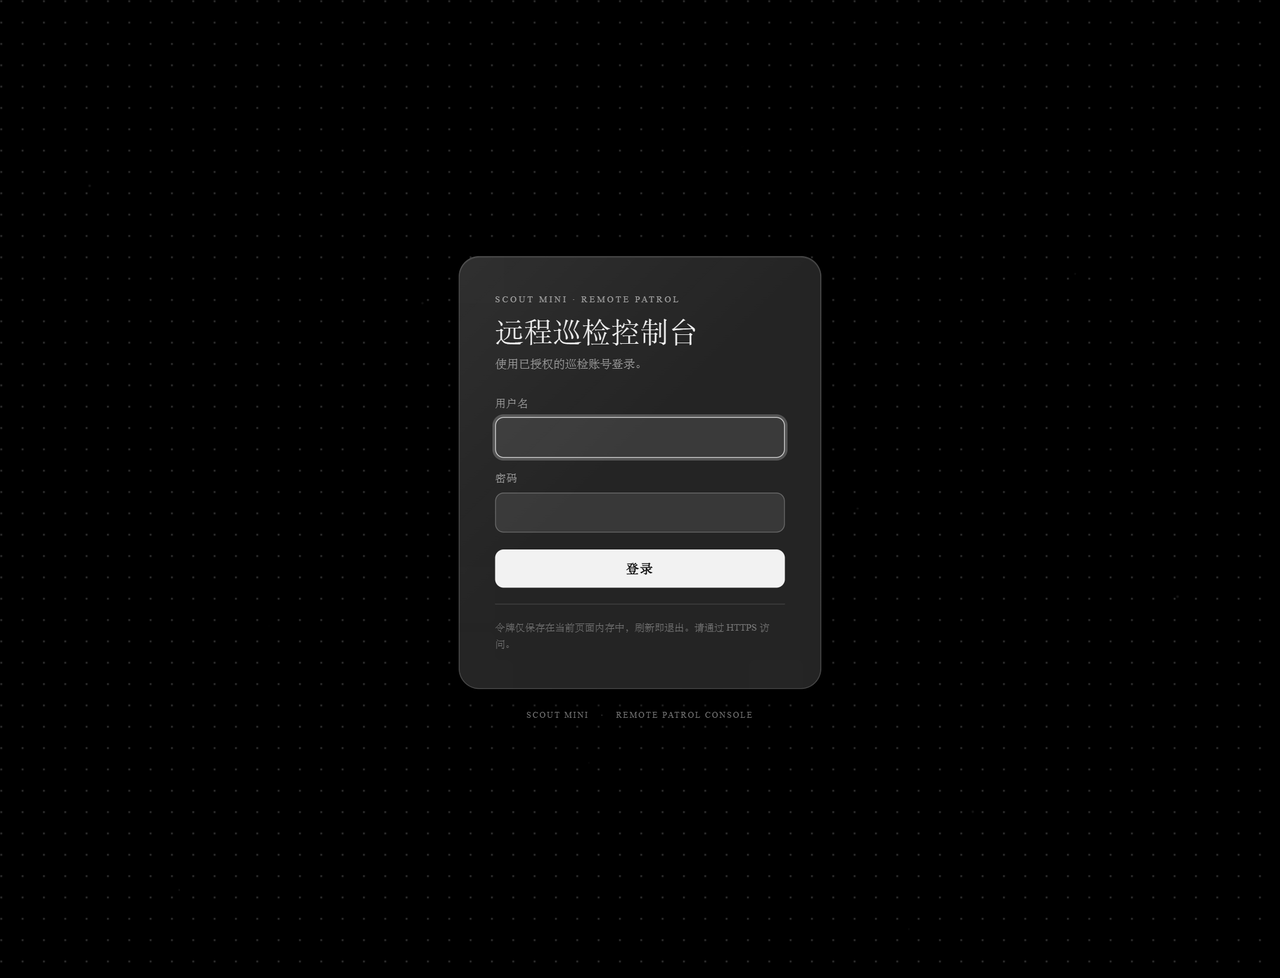
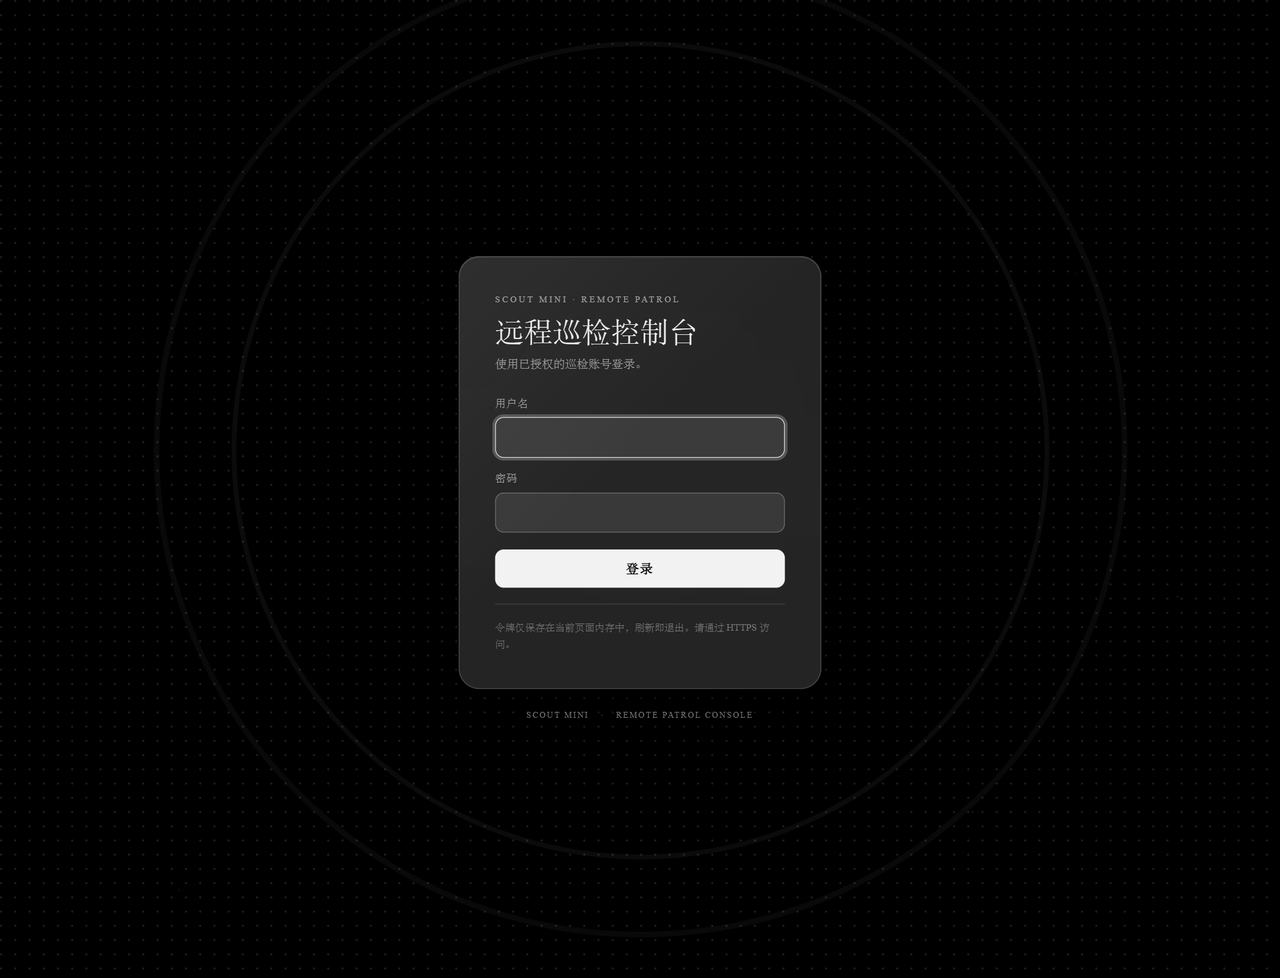
feat(frontend): limit dot field to login and add wave animation

diff --git a/frontend/src/styles.css b/frontend/src/styles.css
@@ -42,7 +42,8 @@
   --danger: #9b2f34;
   --danger-soft: rgb(155 47 52 / 8%);
 
-  --dot-color: rgb(0 0 0 / 22%);
+  --dot-color: rgb(0 0 0 / 18%);
+  --wave-ring: rgb(0 0 0 / 10%);
 
   --shadow-card:
     0 1px 1px rgb(0 0 0 / 5%), 0 30px 65px -34px rgb(0 0 0 / 32%);
@@ -91,7 +92,8 @@
     --danger: #f0a3a3;
     --danger-soft: rgb(240 163 163 / 12%);
 
-    --dot-color: rgb(255 255 255 / 18%);
+    --dot-color: rgb(255 255 255 / 15%);
+    --wave-ring: rgb(255 255 255 / 12%);
 
     --shadow-card:
       0 1px 1px rgb(0 0 0 / 30%), 0 24px 60px -36px rgb(0 0 0 / 85%);
@@ -226,6 +228,30 @@ code {
   height: 100%;
   color: var(--dot-color);
   opacity: 1;
+  transform-origin: 50% 50%;
+  animation: dot-breathe 14s ease-in-out infinite alternate;
+}
+
+.atmosphere-wave {
+  position: absolute;
+  top: 46%;
+  left: 50%;
+  width: 12vmax;
+  height: 12vmax;
+  border: 1px solid var(--wave-ring);
+  border-radius: 50%;
+  opacity: 0;
+  transform: translate(-50%, -50%) scale(0.18);
+  animation: wave-ripple 11s cubic-bezier(0.2, 0.6, 0.3, 1) infinite;
+  will-change: transform, opacity;
+}
+
+.atmosphere-wave:nth-of-type(2) {
+  animation-delay: -3.6s;
+}
+
+.atmosphere-wave:nth-of-type(3) {
+  animation-delay: -7.2s;
 }
 
 .dot-pattern {
@@ -1710,7 +1736,33 @@ td:first-child {
     transform: translate3d(0, 0, 0);
   }
   to {
-    transform: translate3d(24px, 24px, 0);
+    transform: translate3d(16px, 16px, 0);
+  }
+}
+
+@keyframes dot-breathe {
+  from {
+    transform: scale(1);
+  }
+  to {
+    transform: scale(1.025);
+  }
+}
+
+@keyframes wave-ripple {
+  0% {
+    opacity: 0;
+    transform: translate(-50%, -50%) scale(0.18);
+  }
+  12% {
+    opacity: 0.9;
+  }
+  72% {
+    opacity: 0.28;
+  }
+  100% {
+    opacity: 0;
+    transform: translate(-50%, -50%) scale(6.5);
   }
 }
 
@@ -2042,11 +2094,17 @@ td:first-child {
 
   .dot-pattern-drift,
   .dot-pattern-spark,
+  .atmosphere-dots,
+  .atmosphere-wave,
   .live-dot.is-online::after {
     animation: none !important;
   }
 
   .dot-pattern-spark {
     opacity: 0.3;
+  }
+
+  .atmosphere-wave {
+    opacity: 0;
   }
 }

diff --git a/frontend/src/components/Atmosphere.tsx b/frontend/src/components/Atmosphere.tsx
@@ -1,14 +1,17 @@
 import { DotPattern } from './DotPattern';
 
 /**
- * Full-page animated dot field. No color wash or vignette: the page background
- * stays pure white in light mode (pure black in dark mode) and the pattern
- * covers the whole viewport.
+ * Login-only dot field. The grid is denser than the default DotPattern, and
+ * three expanding ripple rings plus a slow breathing scale add the wave
+ * animation. The authenticated console does not mount this component.
  */
 export function Atmosphere() {
   return (
     <div className="atmosphere" aria-hidden="true">
-      <DotPattern className="atmosphere-dots" width={24} height={24} cr={1.2} glow />
+      <DotPattern className="atmosphere-dots" width={16} height={16} cr={1.1} glow />
+      <span className="atmosphere-wave" />
+      <span className="atmosphere-wave" />
+      <span className="atmosphere-wave" />
     </div>
   );
 }

diff --git a/frontend/src/App.tsx b/frontend/src/App.tsx
@@ -109,7 +109,7 @@ export default function App() {
 
   return (
     <div className="app-root">
-      <Atmosphere />
+      {!user && <Atmosphere />}
       {content}
     </div>
   );

diff --git a/PROGRESS.md b/PROGRESS.md
@@ -284,16 +284,17 @@ cd /home/agilex/Desktop/remote_carctl/robot-bridge
 - **中文用宋体，西文用 Times New Roman**。
 - **磨砂玻璃样式，整体更简约**；不要添加无用的图形 logo（例如单独的大写 “S”）。
 - 保留点状背景与动画；不要破坏前后端 API 链接。
-- 后续补充：**浅色背景纯白、点阵灰色并铺满整页**；顶部栏和侧边栏不能再用底色挡住点阵；卡片保持磨砂玻璃的透明感，并增加控件交互动画；**深色模式反过来**（纯黑背景、浅灰点阵、深色玻璃）。
+- 后续补充：**点阵只在登录页**，浅色纯白 + 灰点、深色纯黑 + 灰点，铺满登录页并更密；登录页需要波动动画；**登录后的 dashboard 等页面不要背景**；卡片保持磨砂玻璃透明感，并增加控件交互动画；深色模式反过来（纯黑背景、浅灰点阵、深色玻璃）。
 
 ### 11.2 本次实际改动
 
-- `styles.css` 重写为**纯白/纯黑 + 灰色点阵**的玻璃主题：浅色 `#ffffff`，深色 `#000000`；移除了所有绿色/薄荷色 token，也不再使用冷灰蓝背景。
+- `styles.css` 重写为**纯白/纯黑 + 登录页灰色点阵**的玻璃主题：浅色 `#ffffff`，深色 `#000000`；移除了所有绿色/薄荷色 token，也不再使用冷灰蓝背景。
 - 字体改为系统字体栈：
   `'Times New Roman', 'Songti SC', STSong, SimSun, 'Noto Serif CJK SC', serif`。
   因此中文使用宋体（Windows 为 SimSun），西文与数字使用 Times New Roman；不再使用 ZCOOL XiaoWei / Cormorant Garamond，也移除了 `public/fonts/` 下的自托管字体和 `@font-face`。
-- 点阵层铺满整个视口：`Atmosphere` 只保留 `DotPattern`，没有渐隐遮罩、没有彩色光晕；浅色点颜色 `rgba(0,0,0,0.22)`，深色 `rgba(255,255,255,0.18)`。点阵缓慢漂移 + 稀疏闪烁，`prefers-reduced-motion` 下停止。
-- **顶栏与侧栏改为完全透明**，只保留 1px 发丝边界，让点阵连续覆盖页面上方和侧边；顶部栏不再 sticky，避免透明栏与滚动内容重叠。导航选中态和侧栏状态卡仍是局部玻璃元素。
+- **点阵只在登录页渲染**：`Atmosphere` 仅在 `!user` 时挂载；dashboard、巡检、控制、告警、日志登录后不再渲染点阵，保持纯白/纯黑背景。
+- 登录页点距从 24px 收紧到 **16px**，点半径 1.1；浅色点 `rgba(0,0,0,0.18)`，深色点 `rgba(255,255,255,0.15)`，无渐隐遮罩、铺满登录页视口。在 46s 漂移和闪烁之外新增 `dot-breathe` 呼吸缩放，以及三道 11s 错峰 `wave-ripple` 扩散波纹；`prefers-reduced-motion` 下全部停止。
+- **顶栏与侧栏保持完全透明**，只保留 1px 发丝线；顶部栏不 sticky，避免透明栏与滚动内容重叠。登录后页面本身没有点阵背景，透明栏只用于保持干净的层次。导航选中态和侧栏状态卡仍是局部玻璃元素。
 - 登录面板、弹窗和卡片使用半透明白/黑玻璃、细边框、柔和阴影与 `backdrop-filter: blur(...) saturate(...)`；浅色卡片约 55% 白、深色约 10% 白，保持透明感。
 - 增加控件交互动画：按钮/导航 hover 位移与阴影、输入 focus 环、方向盘 hover 抬升、按住 `scale(0.94)` + 反色 + `press-ring` 波纹，松开恢复。
 - 移除图形品牌标（侧栏/登录页的 “S” 方块）、轨道图、装饰编号、超大 “S” 水印、霓虹色标题渐变等；侧栏和登录页只保留文字 “SCOUT”。
@@ -317,16 +318,16 @@ cd /home/agilex/Desktop/remote_carctl/robot-bridge
 - 用本地静态服务器按生产 CSP（`script-src 'self'; style-src 'self'; connect-src 'self'`）提供 `dist/`，Playwright + 模拟 API 走完登录、总览、巡检、控制、告警、日志和路线/任务弹窗：
   - 0 控制台错误、0 页面异常、0 个 `[style]` 属性；
   - 计算字体栈包含 `Times New Roman` 与宋体 fallback；
-  - 浅色 `body` 背景 `rgb(255,255,255)`、点阵 `rgba(0,0,0,0.22)`；深色 `body` 背景 `rgb(0,0,0)`、点阵 `rgba(255,255,255,0.18)`；点阵 `mask-image: none`，`.atmosphere` 尺寸等于 1440×1100 视口；
-  - 顶栏和侧栏计算背景均为 `rgba(0,0,0,0)`（透明）、`backdrop-filter: none`，点阵不再被控件栏遮挡；
+  - 浅色 `body` 背景 `rgb(255,255,255)`、登录页点阵 `rgba(0,0,0,0.18)`、点距 16px；深色 `body` 背景 `rgb(0,0,0)`、登录页点阵 `rgba(255,255,255,0.15)`；点阵 `mask-image: none`，`.atmosphere` 尺寸等于 1440×1100 视口；登录后 dashboard 的 `.atmosphere` 数量为 **0**；
+  - 登录页有 3 个 `.atmosphere-wave`；`dot-breathe` 与 `wave-ripple` 动画名称均生效；`prefers-reduced-motion: reduce` 下漂移、呼吸、闪烁、波纹全部为 `none`；
+  - 顶栏和侧栏计算背景均为 `rgba(0,0,0,0)`（透明）、`backdrop-filter: none`；登录后无点阵，登录页点阵不被控件栏遮挡；
   - 登录面板背景 `rgba(255,255,255,0.65)` + `blur(32px) saturate(1.2)`；主卡片为 55% 白玻璃；深色为半透明深色玻璃；
   - 1440 / 820 / 390 / 320 宽度均无横向溢出；
-  - 点阵漂移 transform 在两次采样中变化，动画确实运行；`prefers-reduced-motion: reduce` 下为 `none`；
   - 交互动画：方向盘 hover `translateY(-2px)`、环形阴影 4px；按住 `scale(0.94)`、背景切换为反色、`press-ring` 动画运行；
   - 请求路径与请求体未变：登录、状态轮询、路线/任务 GET+POST、告警 GET + PATCH 确认、日志 GET、控制 POST；
   - 按住前进约 0.8 s 后端收到 5 次 `FORWARD`，松开后收到 `STOP`；退出登录再发 `STOP`；
   - MONITOR 可确认告警、不能前进但可 STOP；VIEWER 巡检页无新建/编辑按钮。
-- 截图使用模拟数据；**视觉改版后尚未用真实后端/真实小车重新联调**，也尚未部署到服务器。
+- 截图使用模拟数据；**视觉改版后尚未用真实后端/真实小车重新联调**；登录页-only 的最新版本也尚未部署到服务器。
 
 ### 11.5 线上部署与验证（2026-10-24）
 
@@ -336,6 +337,8 @@ cd /home/agilex/Desktop/remote_carctl/robot-bridge
 - 未登录调用 `/api/v1/robot/status` 返回 401；响应头 CSP 仍为严格策略。
 - 用本机 Chrome（Playwright）加载公网登录页：0 控制台错误、0 页面异常、0 个内联 `style`；`body` 背景 `rgb(255,255,255)`，点阵 `rgba(0,0,0,0.22)`、无遮罩，字体栈包含 Times New Roman 与宋体，登录面板为半透明玻璃 + `blur(32px)`。
 - **尚未用真实账号登录并验证总览/控制/告警/日志**；完整 `smoke-test.sh` 仍需用户在服务器执行。
+
+> **2026-10-24 追加版（尚未部署）**：登录页-only 点阵、16px 点距、三道 `wave-ripple` + `dot-breathe`，登录后 dashboard 不再渲染点阵。本地构建为 `index-kdcNEZf2.js` / `index-BZdA0KMz.css`；线上仍是上一版 `index-CljkQ52s.js`。服务器拉取最新提交后按下方命令重新 build + rsync；验证时登录页应看到更密的点和扩散波纹，登录后背景应为无点阵的纯白/纯黑。
 
 服务器实际上由 **BT 面板的 nginx** 提供服务，不是 systemd 的 `nginx.service`：
 
@@ -374,7 +377,7 @@ sudo chown -R www:www /www/wwwroot/agilex.yoyoyan.cn
 sudo /www/server/nginx/sbin/nginx -t
 sudo /www/server/nginx/sbin/nginx -s reload
 
-# 确认线上引用的是新构建（当前为 index-CljkQ52s.js）
+# 确认线上引用的是新构建（以 dist/index.html 实际 hash 为准；本次本地为 index-kdcNEZf2.js）
 curl -s https://agilex.yoyoyan.cn/ | grep -o 'assets/index-[^"]*\.js'
 
 cd /opt/remote_carctl

diff --git a/frontend/README.md b/frontend/README.md
@@ -17,7 +17,7 @@ SCOUT MINI 远程巡检控制台。前后端分离：本目录是独立的 React
 
 ## 界面预览
 
-以下为本地模拟数据下的界面截图（用于展示视觉，不是实车联调记录）：
+以下为本地模拟数据下的界面截图（用于展示视觉，不是实车联调记录）。点阵仅出现在登录页，登录后的控制台为无点阵的纯白/纯黑背景：
 
 ![登录页](docs/screenshots/login.png)
 
@@ -49,15 +49,13 @@ SCOUT MINI 远程巡检控制台。前后端分离：本目录是独立的 React
 
 - **字体**：中文使用系统宋体（`Songti SC` / `SimSun` / `STSong`），西文使用 `Times New Roman`。字体栈为
   `'Times New Roman', 'Songti SC', STSong, SimSun, 'Noto Serif CJK SC', serif`；不加载外部字体。
-- **纯白/纯黑底 + 灰点**：浅色背景为 `#ffffff`，深色背景为 `#000000`；点阵颜色分别为
-  `rgba(0, 0, 0, 0.22)` 与 `rgba(255, 255, 255, 0.18)`。点阵不使用渐隐遮罩，固定背景铺满整个视口。
+- **登录页点阵**：只有登录页渲染点阵背景。浅色为纯白底 + `rgba(0, 0, 0, 0.18)` 灰点，深色为纯黑底 + `rgba(255, 255, 255, 0.15)` 灰点；点距收紧到 **16px**，不使用渐隐遮罩，铺满登录页视口。
+- **登录后背景**：dashboard、巡检、控制、告警、日志不再渲染点阵，保持纯白/纯黑背景，让卡片和内容更安静；顶栏与侧栏保持透明，只留 1px 发丝线。
+- **波动动画**：登录页点阵以 16px 点距缓慢漂移，并做轻微呼吸缩放；三道从中心扩散的波纹错峰循环，叠加稀疏闪烁。登录后不渲染；`prefers-reduced-motion: reduce` 下全部关闭。
 - **磨砂玻璃**：登录面板、弹窗和卡片使用半透明白/黑玻璃、细边框、柔和阴影和
-  `backdrop-filter: blur(...) saturate(...)`；顶栏与侧栏本身完全透明，只保留 1px 发丝线，
-  让点阵从页面顶部和侧边连续覆盖，不再被控件栏挡住。
-- **点阵动画**：由 Magic UI v3 的 `DotPattern` 改写而来（`src/components/DotPattern.tsx`），
-  使用 SVG `pattern` + CSS 实现缓慢漂移与稀疏闪烁，不引入 Tailwind 或 motion 依赖。
+  `backdrop-filter: blur(...) saturate(...)`。
 - **控件交互**：按钮/导航 hover 位移、卡片 hover 阴影、输入 focus 环、方向盘按住缩放并触发
-  `press-ring` 波纹；`prefers-reduced-motion: reduce` 下关闭点阵和指示灯动画。
+  `press-ring` 波纹；`prefers-reduced-motion: reduce` 下关闭点阵、波纹和指示灯动画。
 - **无图形 logo**：界面只保留文字品牌名 “SCOUT” 和页面标题，登录页没有品牌图形标记。
 - **CSP 兼容**：无内联脚本、无内联 `style` 属性、无外部 CDN，生产构建保持
   `script-src 'self'; style-src 'self'`。
@@ -118,11 +116,11 @@ src/
   control/useHoldControl.ts   React 绑定
   robot/RobotContext.tsx      1 Hz 状态轮询、命令发送
   components/                 布局、卡片、分页、Modal、状态标签
-  components/Atmosphere.tsx   点阵背景层与光晕
+  components/Atmosphere.tsx   登录页点阵、呼吸缩放与扩散波纹
   components/DotPattern.tsx   Magic UI Dot Pattern 的 CSS 动画改写
   pages/                      登录、总览、巡检、控制、告警、日志
   utils/format.ts             中文格式化
-  styles.css                  纯白/纯黑点阵玻璃主题、宋体/Times New Roman、响应式
+  styles.css                  登录页点阵 + 无点阵控制台、宋体/Times New Roman、磨砂玻璃
 deploy/                       nginx 配置、部署与自检脚本
 docs/screenshots/             界面截图（模拟数据）
 ```
@@ -147,17 +145,18 @@ npm test            # 13 项：API 7、HoldController 4、LoginPage 2
 npm run build       # Vite production build
 ```
 
-2026-10-23 视觉改版验证（本地模拟数据 + 生产构建 + 严格 CSP，不是实车）：
+2026-10-24 视觉改版验证（本地模拟数据 + 生产构建 + 严格 CSP，不是实车）：
 
 - `npm run typecheck` 通过；`npm test` 13 项全部通过；`npm run build` 成功。
 - 用本地静态服务器按生产 CSP 提供 `dist/`，以 Playwright + 模拟 API 走完登录、总览、巡检、控制、告警、日志与路线/任务弹窗：0 控制台错误、0 页面异常、0 个内联 `style` 属性。
-- 主题核验：浅色 `body` 背景为 `rgb(255,255,255)`、点阵 `rgba(0,0,0,0.22)`；深色 `body` 背景为 `rgb(0,0,0)`、点阵 `rgba(255,255,255,0.18)`；`mask-image: none`，点阵层覆盖整个视口；顶栏与侧栏计算背景为透明，点阵不再被控件栏覆盖。
+- 主题核验：登录页浅色 `body` 背景 `rgb(255,255,255)`、点阵 `rgba(0,0,0,0.18)`、点距 16px；深色 `body` 背景 `rgb(0,0,0)`、点阵 `rgba(255,255,255,0.15)`；`mask-image: none`，登录页点阵层覆盖整个视口；登录后的 dashboard `.atmosphere` 数量为 0，即不再渲染点阵。
+- 顶栏与侧栏计算背景为透明；登录页有 3 个波纹元素，`wave-ripple` 与 `dot-breathe` 动画均在运行；`prefers-reduced-motion: reduce` 下漂移、呼吸、闪烁和波纹均为 `none`。
 - 登录面板计算背景为半透明白色并带 `blur(32px) saturate(1.2)`；主卡片使用 55% 白玻璃；深色使用深色半透明玻璃。
 - 请求路径与请求体未变：`POST /api/v1/auth/login`、`GET /api/v1/robot/status`、`GET /api/v1/robot`、`GET/POST /api/v1/routes`、`GET/POST /api/v1/tasks`、`GET /api/v1/alarms`、`PATCH /api/v1/alarms/{id}/ack`、`GET /api/v1/control-logs`、`POST /api/v1/robot/control`。
 - 按住前进约 0.8 s，后端收到 5 次 `FORWARD`，松开后收到 `STOP`；退出登录再发一次 `STOP`。
 - 交互核验：方向盘 hover 位移 `translateY(-2px)` 并出现环与阴影，按住缩放 `scale(0.94)`、背景切换为按钮反色、`press-ring` 动画运行；松开恢复。
 - MONITOR 可确认告警、前进按钮禁用但 STOP 可用；VIEWER 巡检页没有新建/编辑按钮。
-- 1440、820、390、320 宽度均无横向溢出；点阵漂移动画确实在运行，`prefers-reduced-motion: reduce` 下点阵动画为 `none`。
+- 1440、820、390、320 宽度均无横向溢出。
 - 截图使用模拟数据；视觉改版后尚未重新进行真实后端/真实小车联调。
 
 改版前的全栈联调记录（API 客户端与按住控制逻辑未改，视觉层已重写）：
